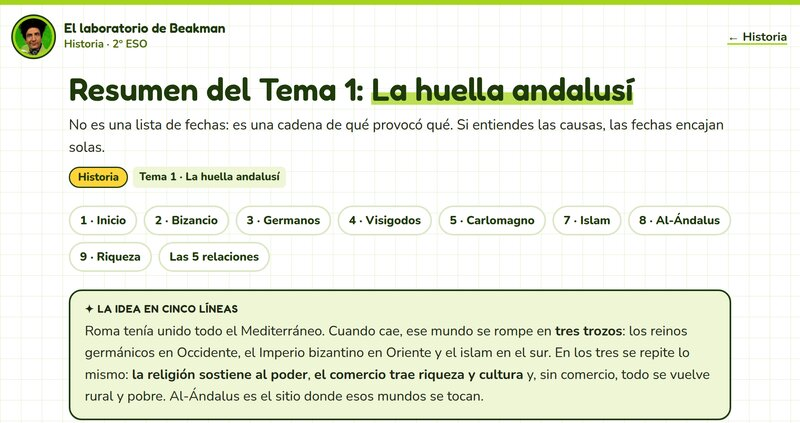
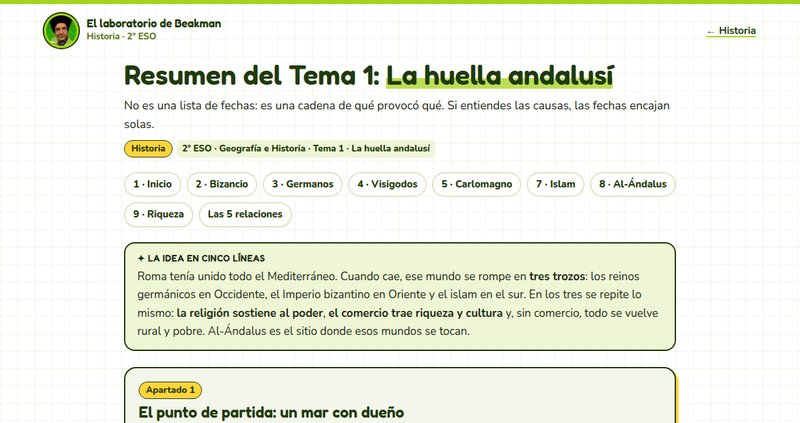
lab: la misma etiqueta en todas las tarjetas, «curso · materia · tema»
La de Historia y la de Ciencias tenían otro orden y otras piezas. Ahora la monta build.py
con el curso, la materia del libro (materias: en cada asignatura, o materia: en el recurso)
y la unidad. También en la cabecera de los dos resúmenes y en sus miniaturas.

diff --git a/lab/site/es/index.html b/lab/site/es/index.html
@@ -47,7 +47,7 @@
   <a class="summary" href="historia/2eso/resumen-tema-1/" style="--subj: #FFD43B">
     <img src="../media/resumen-tema-1.jpg" alt="" width="800" height="423" loading="lazy">
     <div class="body">
-      <div class="meta"><span class="subj">Historia</span><span class="tag">2º ESO · Tema 1 · La huella andalusí</span></div>
+      <div class="meta"><span class="subj">Historia</span><span class="tag">2º ESO · Geografía e Historia · Tema 1 · La huella andalusí</span></div>
       <h3>Resumen del Tema 1: La huella andalusí</h3>
       <p>El tema entero en una lectura: del fin de Roma al reino nazarí de Granada, apartado por apartado, contado como una cadena de qué provocó qué.</p>
     </div>
@@ -66,7 +66,7 @@
   <a class="resource" href="historia/2eso/ponte-a-prueba-tema-1/" style="--subj: #FFD43B">
     <img src="../media/ponte-a-prueba-tema-1.jpg" alt="" width="800" height="423" loading="lazy">
     <div class="body">
-      <div class="meta"><span class="subj">Historia</span><span class="tag">Tema 1 · La huella andalusí</span><span class="pc"><svg viewBox="0 0 24 24" aria-hidden="true"><path d="M4 5h16v10H4zM2 19h20" fill="none" stroke="currentColor" stroke-width="2" stroke-linejoin="round" stroke-linecap="round"/></svg>Para ordenador</span></div>
+      <div class="meta"><span class="subj">Historia</span><span class="tag">2º ESO · Geografía e Historia · Tema 1 · La huella andalusí</span><span class="pc"><svg viewBox="0 0 24 24" aria-hidden="true"><path d="M4 5h16v10H4zM2 19h20" fill="none" stroke="currentColor" stroke-width="2" stroke-linejoin="round" stroke-linecap="round"/></svg>Para ordenador</span></div>
       <h3>Ponte a prueba: el inicio de la Edad Media</h3>
       <p>Repaso para el examen: las 12 preguntas del tema, conceptos, ordenar los hechos, causas y cuadros para completar, con las respuestas de Beakman y un simulacro de examen para hacer con él en Claude.</p>
       <dl class="why">
@@ -78,7 +78,7 @@
   <a class="resource" href="historia/2eso/cronomapa-edad-media/" style="--subj: #FFD43B">
     <img src="../media/cronomapa-edad-media.jpg" alt="" width="800" height="423" loading="lazy">
     <div class="body">
-      <div class="meta"><span class="subj">Historia</span><span class="tag">Toda la Edad Media</span><span class="pc"><svg viewBox="0 0 24 24" aria-hidden="true"><path d="M4 5h16v10H4zM2 19h20" fill="none" stroke="currentColor" stroke-width="2" stroke-linejoin="round" stroke-linecap="round"/></svg>Para ordenador</span></div>
+      <div class="meta"><span class="subj">Historia</span><span class="tag">2º ESO · Geografía e Historia · Toda la Edad Media</span><span class="pc"><svg viewBox="0 0 24 24" aria-hidden="true"><path d="M4 5h16v10H4zM2 19h20" fill="none" stroke="currentColor" stroke-width="2" stroke-linejoin="round" stroke-linecap="round"/></svg>Para ordenador</span></div>
       <h3>Cronomapa de la Edad Media</h3>
       <p>Mueve la barra del 476 al 1492 y mira qué reinos, ciudades y batallas coincidieron en el tiempo. Cada acontecimiento cuenta qué cambió, al poco y a la larga.</p>
       <dl class="why">
@@ -90,7 +90,7 @@
   <a class="resource" href="historia/2eso/mapas-al-andalus/" style="--subj: #FFD43B">
     <img src="../media/mapas-al-andalus.jpg" alt="" width="800" height="423" loading="lazy">
     <div class="body">
-      <div class="meta"><span class="subj">Historia</span><span class="tag">Tema 1 · Al-Ándalus</span><span class="pc"><svg viewBox="0 0 24 24" aria-hidden="true"><path d="M4 5h16v10H4zM2 19h20" fill="none" stroke="currentColor" stroke-width="2" stroke-linejoin="round" stroke-linecap="round"/></svg>Para ordenador</span></div>
+      <div class="meta"><span class="subj">Historia</span><span class="tag">2º ESO · Geografía e Historia · Tema 1 · La huella andalusí</span><span class="pc"><svg viewBox="0 0 24 24" aria-hidden="true"><path d="M4 5h16v10H4zM2 19h20" fill="none" stroke="currentColor" stroke-width="2" stroke-linejoin="round" stroke-linecap="round"/></svg>Para ordenador</span></div>
       <h3>Los mapas de al-Ándalus</h3>
       <p>Casi 800 años en seis mapas: la conquista, el emirato, el califato, los taifas, almorávides y almohades, y el reino nazarí de Granada.</p>
       <dl class="why">
@@ -102,7 +102,7 @@
   <a class="resource" href="historia/2eso/palabras-del-arabe/" style="--subj: #FFD43B">
     <img src="../media/palabras-del-arabe.jpg" alt="" width="800" height="423" loading="lazy">
     <div class="body">
-      <div class="meta"><span class="subj">Historia</span><span class="tag">Tema 1 · El legado de al-Ándalus</span><span class="pc"><svg viewBox="0 0 24 24" aria-hidden="true"><path d="M4 5h16v10H4zM2 19h20" fill="none" stroke="currentColor" stroke-width="2" stroke-linejoin="round" stroke-linecap="round"/></svg>Para ordenador</span></div>
+      <div class="meta"><span class="subj">Historia</span><span class="tag">2º ESO · Geografía e Historia · Tema 1 · La huella andalusí</span><span class="pc"><svg viewBox="0 0 24 24" aria-hidden="true"><path d="M4 5h16v10H4zM2 19h20" fill="none" stroke="currentColor" stroke-width="2" stroke-linejoin="round" stroke-linecap="round"/></svg>Para ordenador</span></div>
       <h3>¿Qué dicen las palabras?</h3>
       <p>Un juego con las palabras que el español heredó del árabe: descubre cuáles vienen de al-Ándalus y cuáles solo lo parecen, clasifícalas por ámbitos y averigua por qué tantas empiezan por «al».</p>
       <dl class="why">
@@ -114,7 +114,7 @@
   <a class="resource" href="historia/2eso/me-pongo-en-su-mentalidad/" style="--subj: #FFD43B">
     <img src="../media/me-pongo-en-su-mentalidad.jpg" alt="" width="800" height="423" loading="lazy">
     <div class="body">
-      <div class="meta"><span class="subj">Historia</span><span class="tag">Tema 1 · Del fin de Roma al Califato de Córdoba</span><span class="pc"><svg viewBox="0 0 24 24" aria-hidden="true"><path d="M4 5h16v10H4zM2 19h20" fill="none" stroke="currentColor" stroke-width="2" stroke-linejoin="round" stroke-linecap="round"/></svg>Para ordenador</span></div>
+      <div class="meta"><span class="subj">Historia</span><span class="tag">2º ESO · Geografía e Historia · Tema 1 · La huella andalusí</span><span class="pc"><svg viewBox="0 0 24 24" aria-hidden="true"><path d="M4 5h16v10H4zM2 19h20" fill="none" stroke="currentColor" stroke-width="2" stroke-linejoin="round" stroke-linecap="round"/></svg>Para ordenador</span></div>
       <h3>Me pongo en su mentalidad</h3>
       <p>Seis personas del inicio de la Edad Media: un artesano que huye al campo, una comerciante de Constantinopla, un monje copista, una vecina de Toledo en el 711, un mercader del zoco de Córdoba y una campesina de una alquería. Elige una y escribe en su piel.</p>
       <dl class="why">
@@ -126,7 +126,7 @@
   <a class="resource" href="historia/2eso/mezquita-y-alqueria/" style="--subj: #FFD43B">
     <img src="../media/mezquita-y-alqueria.jpg" alt="" width="800" height="423" loading="lazy">
     <div class="body">
-      <div class="meta"><span class="subj">Historia</span><span class="tag">Tema 1 · La huella andalusí</span><span class="pc"><svg viewBox="0 0 24 24" aria-hidden="true"><path d="M4 5h16v10H4zM2 19h20" fill="none" stroke="currentColor" stroke-width="2" stroke-linejoin="round" stroke-linecap="round"/></svg>Para ordenador</span></div>
+      <div class="meta"><span class="subj">Historia</span><span class="tag">2º ESO · Geografía e Historia · Tema 1 · La huella andalusí</span><span class="pc"><svg viewBox="0 0 24 24" aria-hidden="true"><path d="M4 5h16v10H4zM2 19h20" fill="none" stroke="currentColor" stroke-width="2" stroke-linejoin="round" stroke-linecap="round"/></svg>Para ordenador</span></div>
       <h3>La mezquita y la alquería por dentro</h3>
       <p>Dos dibujos para pulsar: las partes de una mezquita (minarete, patio, fuente, sala de oraciones, quibla, mihrab y mimbar) y las de una alquería de regadío (rueda hidráulica, noria, acequias, alberca, huertos…). Con los cinco deberes del musulmán.</p>
       <dl class="why">
@@ -138,7 +138,7 @@
   <a class="resource" href="historia/2eso/mayrit/" style="--subj: #FFD43B">
     <img src="../media/mayrit.jpg" alt="" width="800" height="423" loading="lazy">
     <div class="body">
-      <div class="meta"><span class="subj">Historia</span><span class="tag">Tema 1 · La huella andalusí</span><span class="pc"><svg viewBox="0 0 24 24" aria-hidden="true"><path d="M4 5h16v10H4zM2 19h20" fill="none" stroke="currentColor" stroke-width="2" stroke-linejoin="round" stroke-linecap="round"/></svg>Para ordenador</span></div>
+      <div class="meta"><span class="subj">Historia</span><span class="tag">2º ESO · Geografía e Historia · Tema 1 · La huella andalusí</span><span class="pc"><svg viewBox="0 0 24 24" aria-hidden="true"><path d="M4 5h16v10H4zM2 19h20" fill="none" stroke="currentColor" stroke-width="2" stroke-linejoin="round" stroke-linecap="round"/></svg>Para ordenador</span></div>
       <h3>Mayrit, el Madrid de al-Ándalus</h3>
       <p>Un plano para pulsar de la fortaleza andalusí que dio origen a Madrid, con una capa que superpone el Madrid de hoy, una línea de tiempo y un paseo por lo que queda.</p>
       <dl class="why">
@@ -150,7 +150,7 @@
   <a class="resource" href="historia/2eso/quien-soy/" style="--subj: #FFD43B">
     <img src="../media/quien-soy.jpg" alt="" width="800" height="423" loading="lazy">
     <div class="body">
-      <div class="meta"><span class="subj">Historia</span><span class="tag">Tema 1 · La huella andalusí</span><span class="pc"><svg viewBox="0 0 24 24" aria-hidden="true"><path d="M4 5h16v10H4zM2 19h20" fill="none" stroke="currentColor" stroke-width="2" stroke-linejoin="round" stroke-linecap="round"/></svg>Para ordenador</span></div>
+      <div class="meta"><span class="subj">Historia</span><span class="tag">2º ESO · Geografía e Historia · Tema 1 · La huella andalusí</span><span class="pc"><svg viewBox="0 0 24 24" aria-hidden="true"><path d="M4 5h16v10H4zM2 19h20" fill="none" stroke="currentColor" stroke-width="2" stroke-linejoin="round" stroke-linecap="round"/></svg>Para ordenador</span></div>
       <h3>¿Quién soy?</h3>
       <p>Trece personajes del inicio de la Edad Media te hablan en primera persona: de Rómulo Augústulo a Almanzor. Adivina quién es con el menor número de pistas.</p>
       <dl class="why">
@@ -162,7 +162,7 @@
   <a class="resource" href="historia/2eso/vocabulario-tema-1/" style="--subj: #FFD43B">
     <img src="../media/vocabulario-tema-1.jpg" alt="" width="800" height="423" loading="lazy">
     <div class="body">
-      <div class="meta"><span class="subj">Historia</span><span class="tag">Tema 1 · La huella andalusí</span><span class="pc"><svg viewBox="0 0 24 24" aria-hidden="true"><path d="M4 5h16v10H4zM2 19h20" fill="none" stroke="currentColor" stroke-width="2" stroke-linejoin="round" stroke-linecap="round"/></svg>Para ordenador</span></div>
+      <div class="meta"><span class="subj">Historia</span><span class="tag">2º ESO · Geografía e Historia · Tema 1 · La huella andalusí</span><span class="pc"><svg viewBox="0 0 24 24" aria-hidden="true"><path d="M4 5h16v10H4zM2 19h20" fill="none" stroke="currentColor" stroke-width="2" stroke-linejoin="round" stroke-linecap="round"/></svg>Para ordenador</span></div>
       <h3>Vocabulario del Tema 1</h3>
       <p>Las 47 palabras clave del tema en tarjetas que giran: de Mare Nostrum y basileus a taifa, alquería y Mayrit, con su definición y un ejemplo.</p>
       <dl class="why">
@@ -174,7 +174,7 @@
   <a class="resource" href="historia/2eso/tres-carriles/" style="--subj: #FFD43B">
     <img src="../media/tres-carriles.jpg" alt="" width="800" height="423" loading="lazy">
     <div class="body">
-      <div class="meta"><span class="subj">Historia</span><span class="tag">Tema 1 · La huella andalusí</span><span class="pc"><svg viewBox="0 0 24 24" aria-hidden="true"><path d="M4 5h16v10H4zM2 19h20" fill="none" stroke="currentColor" stroke-width="2" stroke-linejoin="round" stroke-linecap="round"/></svg>Para ordenador</span></div>
+      <div class="meta"><span class="subj">Historia</span><span class="tag">2º ESO · Geografía e Historia · Tema 1 · La huella andalusí</span><span class="pc"><svg viewBox="0 0 24 24" aria-hidden="true"><path d="M4 5h16v10H4zM2 19h20" fill="none" stroke="currentColor" stroke-width="2" stroke-linejoin="round" stroke-linecap="round"/></svg>Para ordenador</span></div>
       <h3>El Tema 1 en tres carriles</h3>
       <p>Una línea del tiempo del 400 al 1500 con tres carriles en paralelo: Imperio bizantino, Europa germánica y carolingia, y el islam y al-Ándalus. Cabe en un folio para imprimir.</p>
       <dl class="why">
@@ -186,7 +186,7 @@
   <a class="resource" href="ciencias/2eso/que-es-una-magnitud/" style="--subj: #69DB7C">
     <img src="../media/que-es-una-magnitud.jpg" alt="" width="800" height="423" loading="lazy">
     <div class="body">
-      <div class="meta"><span class="subj">Ciencias</span><span class="tag">Física y Química · Tema 1 · La actividad científica</span><span class="pc"><svg viewBox="0 0 24 24" aria-hidden="true"><path d="M4 5h16v10H4zM2 19h20" fill="none" stroke="currentColor" stroke-width="2" stroke-linejoin="round" stroke-linecap="round"/></svg>Para ordenador</span></div>
+      <div class="meta"><span class="subj">Ciencias</span><span class="tag">2º ESO · Física y Química · Tema 1 · La actividad científica</span><span class="pc"><svg viewBox="0 0 24 24" aria-hidden="true"><path d="M4 5h16v10H4zM2 19h20" fill="none" stroke="currentColor" stroke-width="2" stroke-linejoin="round" stroke-linecap="round"/></svg>Para ordenador</span></div>
       <h3>¿Qué es una magnitud?</h3>
       <p>Clasifica qué se puede medir y qué no, mira a escala por qué «5» no dice nada y «5 m» sí, empareja cada magnitud con su unidad, su símbolo y su instrumento, y construye las magnitudes derivadas con bloques.</p>
       <dl class="why">
@@ -198,7 +198,7 @@
   <a class="resource" href="ciencias/2eso/escalera-de-unidades/" style="--subj: #69DB7C">
     <img src="../media/escalera-de-unidades.jpg" alt="" width="800" height="423" loading="lazy">
     <div class="body">
-      <div class="meta"><span class="subj">Ciencias</span><span class="tag">Física y Química · Tema 1 · La actividad científica</span><span class="pc"><svg viewBox="0 0 24 24" aria-hidden="true"><path d="M4 5h16v10H4zM2 19h20" fill="none" stroke="currentColor" stroke-width="2" stroke-linejoin="round" stroke-linecap="round"/></svg>Para ordenador</span></div>
+      <div class="meta"><span class="subj">Ciencias</span><span class="tag">2º ESO · Física y Química · Tema 1 · La actividad científica</span><span class="pc"><svg viewBox="0 0 24 24" aria-hidden="true"><path d="M4 5h16v10H4zM2 19h20" fill="none" stroke="currentColor" stroke-width="2" stroke-linejoin="round" stroke-linecap="round"/></svg>Para ordenador</span></div>
       <h3>La escalera de las unidades</h3>
       <p>Sube y baja la escalera de km a mm (y de las unidades de masa y de capacidad), mira cómo se mueve la coma en cada escalón y aprende el truco del factor de conversión, con las unidades tachándose ante tus ojos.</p>
       <dl class="why">
@@ -210,7 +210,7 @@
   <a class="resource" href="ciencias/2eso/mide-como-en-el-laboratorio/" style="--subj: #69DB7C">
     <img src="../media/mide-como-en-el-laboratorio.jpg" alt="" width="800" height="423" loading="lazy">
     <div class="body">
-      <div class="meta"><span class="subj">Ciencias</span><span class="tag">Física y Química · Tema 1 · La actividad científica</span><span class="pc"><svg viewBox="0 0 24 24" aria-hidden="true"><path d="M4 5h16v10H4zM2 19h20" fill="none" stroke="currentColor" stroke-width="2" stroke-linejoin="round" stroke-linecap="round"/></svg>Para ordenador</span></div>
+      <div class="meta"><span class="subj">Ciencias</span><span class="tag">2º ESO · Física y Química · Tema 1 · La actividad científica</span><span class="pc"><svg viewBox="0 0 24 24" aria-hidden="true"><path d="M4 5h16v10H4zM2 19h20" fill="none" stroke="currentColor" stroke-width="2" stroke-linejoin="round" stroke-linecap="round"/></svg>Para ordenador</span></div>
       <h3>Mide como en el laboratorio</h3>
       <p>Lee una regla, una probeta, un termómetro, una balanza y un cronómetro, compara la precisión de dos instrumentos, mide varias veces y haz la media, y caza los errores típicos al medir.</p>
       <dl class="why">

diff --git a/lab/site/es/historia/index.html b/lab/site/es/historia/index.html
@@ -30,7 +30,7 @@
   <a class="summary" href="2eso/resumen-tema-1/" style="--subj: #FFD43B">
     <img src="../../media/resumen-tema-1.jpg" alt="" width="800" height="423" loading="lazy">
     <div class="body">
-      <div class="meta"><span class="subj">Historia</span><span class="tag">2º ESO · Tema 1 · La huella andalusí</span></div>
+      <div class="meta"><span class="subj">Historia</span><span class="tag">2º ESO · Geografía e Historia · Tema 1 · La huella andalusí</span></div>
       <h3>Resumen del Tema 1: La huella andalusí</h3>
       <p>El tema entero en una lectura: del fin de Roma al reino nazarí de Granada, apartado por apartado, contado como una cadena de qué provocó qué.</p>
     </div>
@@ -45,7 +45,7 @@
   <a class="resource" href="2eso/ponte-a-prueba-tema-1/" style="--subj: #FFD43B">
     <img src="../../media/ponte-a-prueba-tema-1.jpg" alt="" width="800" height="423" loading="lazy">
     <div class="body">
-      <div class="meta"><span class="subj">Historia</span><span class="tag">Tema 1 · La huella andalusí</span><span class="pc"><svg viewBox="0 0 24 24" aria-hidden="true"><path d="M4 5h16v10H4zM2 19h20" fill="none" stroke="currentColor" stroke-width="2" stroke-linejoin="round" stroke-linecap="round"/></svg>Para ordenador</span></div>
+      <div class="meta"><span class="subj">Historia</span><span class="tag">2º ESO · Geografía e Historia · Tema 1 · La huella andalusí</span><span class="pc"><svg viewBox="0 0 24 24" aria-hidden="true"><path d="M4 5h16v10H4zM2 19h20" fill="none" stroke="currentColor" stroke-width="2" stroke-linejoin="round" stroke-linecap="round"/></svg>Para ordenador</span></div>
       <h3>Ponte a prueba: el inicio de la Edad Media</h3>
       <p>Repaso para el examen: las 12 preguntas del tema, conceptos, ordenar los hechos, causas y cuadros para completar, con las respuestas de Beakman y un simulacro de examen para hacer con él en Claude.</p>
       <dl class="why">
@@ -57,7 +57,7 @@
   <a class="resource" href="2eso/mapas-al-andalus/" style="--subj: #FFD43B">
     <img src="../../media/mapas-al-andalus.jpg" alt="" width="800" height="423" loading="lazy">
     <div class="body">
-      <div class="meta"><span class="subj">Historia</span><span class="tag">Tema 1 · Al-Ándalus</span><span class="pc"><svg viewBox="0 0 24 24" aria-hidden="true"><path d="M4 5h16v10H4zM2 19h20" fill="none" stroke="currentColor" stroke-width="2" stroke-linejoin="round" stroke-linecap="round"/></svg>Para ordenador</span></div>
+      <div class="meta"><span class="subj">Historia</span><span class="tag">2º ESO · Geografía e Historia · Tema 1 · La huella andalusí</span><span class="pc"><svg viewBox="0 0 24 24" aria-hidden="true"><path d="M4 5h16v10H4zM2 19h20" fill="none" stroke="currentColor" stroke-width="2" stroke-linejoin="round" stroke-linecap="round"/></svg>Para ordenador</span></div>
       <h3>Los mapas de al-Ándalus</h3>
       <p>Casi 800 años en seis mapas: la conquista, el emirato, el califato, los taifas, almorávides y almohades, y el reino nazarí de Granada.</p>
       <dl class="why">
@@ -69,7 +69,7 @@
   <a class="resource" href="2eso/palabras-del-arabe/" style="--subj: #FFD43B">
     <img src="../../media/palabras-del-arabe.jpg" alt="" width="800" height="423" loading="lazy">
     <div class="body">
-      <div class="meta"><span class="subj">Historia</span><span class="tag">Tema 1 · El legado de al-Ándalus</span><span class="pc"><svg viewBox="0 0 24 24" aria-hidden="true"><path d="M4 5h16v10H4zM2 19h20" fill="none" stroke="currentColor" stroke-width="2" stroke-linejoin="round" stroke-linecap="round"/></svg>Para ordenador</span></div>
+      <div class="meta"><span class="subj">Historia</span><span class="tag">2º ESO · Geografía e Historia · Tema 1 · La huella andalusí</span><span class="pc"><svg viewBox="0 0 24 24" aria-hidden="true"><path d="M4 5h16v10H4zM2 19h20" fill="none" stroke="currentColor" stroke-width="2" stroke-linejoin="round" stroke-linecap="round"/></svg>Para ordenador</span></div>
       <h3>¿Qué dicen las palabras?</h3>
       <p>Un juego con las palabras que el español heredó del árabe: descubre cuáles vienen de al-Ándalus y cuáles solo lo parecen, clasifícalas por ámbitos y averigua por qué tantas empiezan por «al».</p>
       <dl class="why">
@@ -81,7 +81,7 @@
   <a class="resource" href="2eso/me-pongo-en-su-mentalidad/" style="--subj: #FFD43B">
     <img src="../../media/me-pongo-en-su-mentalidad.jpg" alt="" width="800" height="423" loading="lazy">
     <div class="body">
-      <div class="meta"><span class="subj">Historia</span><span class="tag">Tema 1 · Del fin de Roma al Califato de Córdoba</span><span class="pc"><svg viewBox="0 0 24 24" aria-hidden="true"><path d="M4 5h16v10H4zM2 19h20" fill="none" stroke="currentColor" stroke-width="2" stroke-linejoin="round" stroke-linecap="round"/></svg>Para ordenador</span></div>
+      <div class="meta"><span class="subj">Historia</span><span class="tag">2º ESO · Geografía e Historia · Tema 1 · La huella andalusí</span><span class="pc"><svg viewBox="0 0 24 24" aria-hidden="true"><path d="M4 5h16v10H4zM2 19h20" fill="none" stroke="currentColor" stroke-width="2" stroke-linejoin="round" stroke-linecap="round"/></svg>Para ordenador</span></div>
       <h3>Me pongo en su mentalidad</h3>
       <p>Seis personas del inicio de la Edad Media: un artesano que huye al campo, una comerciante de Constantinopla, un monje copista, una vecina de Toledo en el 711, un mercader del zoco de Córdoba y una campesina de una alquería. Elige una y escribe en su piel.</p>
       <dl class="why">
@@ -93,7 +93,7 @@
   <a class="resource" href="2eso/mezquita-y-alqueria/" style="--subj: #FFD43B">
     <img src="../../media/mezquita-y-alqueria.jpg" alt="" width="800" height="423" loading="lazy">
     <div class="body">
-      <div class="meta"><span class="subj">Historia</span><span class="tag">Tema 1 · La huella andalusí</span><span class="pc"><svg viewBox="0 0 24 24" aria-hidden="true"><path d="M4 5h16v10H4zM2 19h20" fill="none" stroke="currentColor" stroke-width="2" stroke-linejoin="round" stroke-linecap="round"/></svg>Para ordenador</span></div>
+      <div class="meta"><span class="subj">Historia</span><span class="tag">2º ESO · Geografía e Historia · Tema 1 · La huella andalusí</span><span class="pc"><svg viewBox="0 0 24 24" aria-hidden="true"><path d="M4 5h16v10H4zM2 19h20" fill="none" stroke="currentColor" stroke-width="2" stroke-linejoin="round" stroke-linecap="round"/></svg>Para ordenador</span></div>
       <h3>La mezquita y la alquería por dentro</h3>
       <p>Dos dibujos para pulsar: las partes de una mezquita (minarete, patio, fuente, sala de oraciones, quibla, mihrab y mimbar) y las de una alquería de regadío (rueda hidráulica, noria, acequias, alberca, huertos…). Con los cinco deberes del musulmán.</p>
       <dl class="why">
@@ -105,7 +105,7 @@
   <a class="resource" href="2eso/mayrit/" style="--subj: #FFD43B">
     <img src="../../media/mayrit.jpg" alt="" width="800" height="423" loading="lazy">
     <div class="body">
-      <div class="meta"><span class="subj">Historia</span><span class="tag">Tema 1 · La huella andalusí</span><span class="pc"><svg viewBox="0 0 24 24" aria-hidden="true"><path d="M4 5h16v10H4zM2 19h20" fill="none" stroke="currentColor" stroke-width="2" stroke-linejoin="round" stroke-linecap="round"/></svg>Para ordenador</span></div>
+      <div class="meta"><span class="subj">Historia</span><span class="tag">2º ESO · Geografía e Historia · Tema 1 · La huella andalusí</span><span class="pc"><svg viewBox="0 0 24 24" aria-hidden="true"><path d="M4 5h16v10H4zM2 19h20" fill="none" stroke="currentColor" stroke-width="2" stroke-linejoin="round" stroke-linecap="round"/></svg>Para ordenador</span></div>
       <h3>Mayrit, el Madrid de al-Ándalus</h3>
       <p>Un plano para pulsar de la fortaleza andalusí que dio origen a Madrid, con una capa que superpone el Madrid de hoy, una línea de tiempo y un paseo por lo que queda.</p>
       <dl class="why">
@@ -117,7 +117,7 @@
   <a class="resource" href="2eso/quien-soy/" style="--subj: #FFD43B">
     <img src="../../media/quien-soy.jpg" alt="" width="800" height="423" loading="lazy">
     <div class="body">
-      <div class="meta"><span class="subj">Historia</span><span class="tag">Tema 1 · La huella andalusí</span><span class="pc"><svg viewBox="0 0 24 24" aria-hidden="true"><path d="M4 5h16v10H4zM2 19h20" fill="none" stroke="currentColor" stroke-width="2" stroke-linejoin="round" stroke-linecap="round"/></svg>Para ordenador</span></div>
+      <div class="meta"><span class="subj">Historia</span><span class="tag">2º ESO · Geografía e Historia · Tema 1 · La huella andalusí</span><span class="pc"><svg viewBox="0 0 24 24" aria-hidden="true"><path d="M4 5h16v10H4zM2 19h20" fill="none" stroke="currentColor" stroke-width="2" stroke-linejoin="round" stroke-linecap="round"/></svg>Para ordenador</span></div>
       <h3>¿Quién soy?</h3>
       <p>Trece personajes del inicio de la Edad Media te hablan en primera persona: de Rómulo Augústulo a Almanzor. Adivina quién es con el menor número de pistas.</p>
       <dl class="why">
@@ -129,7 +129,7 @@
   <a class="resource" href="2eso/vocabulario-tema-1/" style="--subj: #FFD43B">
     <img src="../../media/vocabulario-tema-1.jpg" alt="" width="800" height="423" loading="lazy">
     <div class="body">
-      <div class="meta"><span class="subj">Historia</span><span class="tag">Tema 1 · La huella andalusí</span><span class="pc"><svg viewBox="0 0 24 24" aria-hidden="true"><path d="M4 5h16v10H4zM2 19h20" fill="none" stroke="currentColor" stroke-width="2" stroke-linejoin="round" stroke-linecap="round"/></svg>Para ordenador</span></div>
+      <div class="meta"><span class="subj">Historia</span><span class="tag">2º ESO · Geografía e Historia · Tema 1 · La huella andalusí</span><span class="pc"><svg viewBox="0 0 24 24" aria-hidden="true"><path d="M4 5h16v10H4zM2 19h20" fill="none" stroke="currentColor" stroke-width="2" stroke-linejoin="round" stroke-linecap="round"/></svg>Para ordenador</span></div>
       <h3>Vocabulario del Tema 1</h3>
       <p>Las 47 palabras clave del tema en tarjetas que giran: de Mare Nostrum y basileus a taifa, alquería y Mayrit, con su definición y un ejemplo.</p>
       <dl class="why">
@@ -141,7 +141,7 @@
   <a class="resource" href="2eso/tres-carriles/" style="--subj: #FFD43B">
     <img src="../../media/tres-carriles.jpg" alt="" width="800" height="423" loading="lazy">
     <div class="body">
-      <div class="meta"><span class="subj">Historia</span><span class="tag">Tema 1 · La huella andalusí</span><span class="pc"><svg viewBox="0 0 24 24" aria-hidden="true"><path d="M4 5h16v10H4zM2 19h20" fill="none" stroke="currentColor" stroke-width="2" stroke-linejoin="round" stroke-linecap="round"/></svg>Para ordenador</span></div>
+      <div class="meta"><span class="subj">Historia</span><span class="tag">2º ESO · Geografía e Historia · Tema 1 · La huella andalusí</span><span class="pc"><svg viewBox="0 0 24 24" aria-hidden="true"><path d="M4 5h16v10H4zM2 19h20" fill="none" stroke="currentColor" stroke-width="2" stroke-linejoin="round" stroke-linecap="round"/></svg>Para ordenador</span></div>
       <h3>El Tema 1 en tres carriles</h3>
       <p>Una línea del tiempo del 400 al 1500 con tres carriles en paralelo: Imperio bizantino, Europa germánica y carolingia, y el islam y al-Ándalus. Cabe en un folio para imprimir.</p>
       <dl class="why">
@@ -156,7 +156,7 @@
   <a class="resource" href="2eso/cronomapa-edad-media/" style="--subj: #FFD43B">
     <img src="../../media/cronomapa-edad-media.jpg" alt="" width="800" height="423" loading="lazy">
     <div class="body">
-      <div class="meta"><span class="subj">Historia</span><span class="tag">Toda la Edad Media</span><span class="pc"><svg viewBox="0 0 24 24" aria-hidden="true"><path d="M4 5h16v10H4zM2 19h20" fill="none" stroke="currentColor" stroke-width="2" stroke-linejoin="round" stroke-linecap="round"/></svg>Para ordenador</span></div>
+      <div class="meta"><span class="subj">Historia</span><span class="tag">2º ESO · Geografía e Historia · Toda la Edad Media</span><span class="pc"><svg viewBox="0 0 24 24" aria-hidden="true"><path d="M4 5h16v10H4zM2 19h20" fill="none" stroke="currentColor" stroke-width="2" stroke-linejoin="round" stroke-linecap="round"/></svg>Para ordenador</span></div>
       <h3>Cronomapa de la Edad Media</h3>
       <p>Mueve la barra del 476 al 1492 y mira qué reinos, ciudades y batallas coincidieron en el tiempo. Cada acontecimiento cuenta qué cambió, al poco y a la larga.</p>
       <dl class="why">

diff --git a/lab/site/es/ciencias/index.html b/lab/site/es/ciencias/index.html
@@ -45,7 +45,7 @@
   <a class="resource" href="2eso/que-es-una-magnitud/" style="--subj: #69DB7C">
     <img src="../../media/que-es-una-magnitud.jpg" alt="" width="800" height="423" loading="lazy">
     <div class="body">
-      <div class="meta"><span class="subj">Ciencias</span><span class="tag">Física y Química · Tema 1 · La actividad científica</span><span class="pc"><svg viewBox="0 0 24 24" aria-hidden="true"><path d="M4 5h16v10H4zM2 19h20" fill="none" stroke="currentColor" stroke-width="2" stroke-linejoin="round" stroke-linecap="round"/></svg>Para ordenador</span></div>
+      <div class="meta"><span class="subj">Ciencias</span><span class="tag">2º ESO · Física y Química · Tema 1 · La actividad científica</span><span class="pc"><svg viewBox="0 0 24 24" aria-hidden="true"><path d="M4 5h16v10H4zM2 19h20" fill="none" stroke="currentColor" stroke-width="2" stroke-linejoin="round" stroke-linecap="round"/></svg>Para ordenador</span></div>
       <h3>¿Qué es una magnitud?</h3>
       <p>Clasifica qué se puede medir y qué no, mira a escala por qué «5» no dice nada y «5 m» sí, empareja cada magnitud con su unidad, su símbolo y su instrumento, y construye las magnitudes derivadas con bloques.</p>
       <dl class="why">
@@ -57,7 +57,7 @@
   <a class="resource" href="2eso/escalera-de-unidades/" style="--subj: #69DB7C">
     <img src="../../media/escalera-de-unidades.jpg" alt="" width="800" height="423" loading="lazy">
     <div class="body">
-      <div class="meta"><span class="subj">Ciencias</span><span class="tag">Física y Química · Tema 1 · La actividad científica</span><span class="pc"><svg viewBox="0 0 24 24" aria-hidden="true"><path d="M4 5h16v10H4zM2 19h20" fill="none" stroke="currentColor" stroke-width="2" stroke-linejoin="round" stroke-linecap="round"/></svg>Para ordenador</span></div>
+      <div class="meta"><span class="subj">Ciencias</span><span class="tag">2º ESO · Física y Química · Tema 1 · La actividad científica</span><span class="pc"><svg viewBox="0 0 24 24" aria-hidden="true"><path d="M4 5h16v10H4zM2 19h20" fill="none" stroke="currentColor" stroke-width="2" stroke-linejoin="round" stroke-linecap="round"/></svg>Para ordenador</span></div>
       <h3>La escalera de las unidades</h3>
       <p>Sube y baja la escalera de km a mm (y de las unidades de masa y de capacidad), mira cómo se mueve la coma en cada escalón y aprende el truco del factor de conversión, con las unidades tachándose ante tus ojos.</p>
       <dl class="why">
@@ -69,7 +69,7 @@
   <a class="resource" href="2eso/mide-como-en-el-laboratorio/" style="--subj: #69DB7C">
     <img src="../../media/mide-como-en-el-laboratorio.jpg" alt="" width="800" height="423" loading="lazy">
     <div class="body">
-      <div class="meta"><span class="subj">Ciencias</span><span class="tag">Física y Química · Tema 1 · La actividad científica</span><span class="pc"><svg viewBox="0 0 24 24" aria-hidden="true"><path d="M4 5h16v10H4zM2 19h20" fill="none" stroke="currentColor" stroke-width="2" stroke-linejoin="round" stroke-linecap="round"/></svg>Para ordenador</span></div>
+      <div class="meta"><span class="subj">Ciencias</span><span class="tag">2º ESO · Física y Química · Tema 1 · La actividad científica</span><span class="pc"><svg viewBox="0 0 24 24" aria-hidden="true"><path d="M4 5h16v10H4zM2 19h20" fill="none" stroke="currentColor" stroke-width="2" stroke-linejoin="round" stroke-linecap="round"/></svg>Para ordenador</span></div>
       <h3>Mide como en el laboratorio</h3>
       <p>Lee una regla, una probeta, un termómetro, una balanza y un cronómetro, compara la precisión de dos instrumentos, mide varias veces y haz la media, y caza los errores típicos al medir.</p>
       <dl class="why">

diff --git a/lab/site/es/ciencias/2eso/resumen-actividad-cientifica/index.html b/lab/site/es/ciencias/2eso/resumen-actividad-cientifica/index.html
@@ -49,7 +49,7 @@ code { font-family: inherit; font-weight: 800; color: var(--ink); background: #f
   <div class="rhead">
     <h1>Resumen del Tema 1: <em>La actividad científica</em></h1>
     <p class="lead">La unidad que es la caja de herramientas de todo el curso: cómo trabaja la ciencia, qué se mide, con qué unidades y cómo se mide bien.</p>
-    <div class="meta"><span class="subj" style="--subj:#69DB7C">Ciencias</span><span class="tag">Física y Química · Tema 1 · La actividad científica</span></div>
+    <div class="meta"><span class="subj" style="--subj:#69DB7C">Ciencias</span><span class="tag">2º ESO · Física y Química · Tema 1 · La actividad científica</span></div>
   </div>
 
   <nav class="tabs" aria-label="Apartados">

diff --git a/lab/site/es/historia/2eso/resumen-tema-1/index.html b/lab/site/es/historia/2eso/resumen-tema-1/index.html
@@ -45,7 +45,7 @@ main.wrap { max-width: 860px; }
   <div class="rhead">
     <h1>Resumen del Tema 1: <em>La huella andalusí</em></h1>
     <p class="lead">No es una lista de fechas: es una cadena de qué provocó qué. Si entiendes las causas, las fechas encajan solas.</p>
-    <div class="meta"><span class="subj" style="--subj:#FFD43B">Historia</span><span class="tag">Tema 1 · La huella andalusí</span></div>
+    <div class="meta"><span class="subj" style="--subj:#FFD43B">Historia</span><span class="tag">2º ESO · Geografía e Historia · Tema 1 · La huella andalusí</span></div>
   </div>
 
   <nav class="tabs" aria-label="Apartados">

diff --git a/lab/build.py b/lab/build.py
@@ -78,6 +78,15 @@ def count(t, n):
     return t["recurso_1"] if n == 1 else t["recurso_n"].format(n=n)
 
 
+def etiqueta(t, r, s, lang):
+    """La misma en todas las tarjetas: curso · materia del libro · tema (o qué abarca, si es para todo el curso)."""
+    tx = r[lang]
+    unidad = tx.get("unidad") or GENERAL
+    partes = [t["cursos"][r["curso"]], tx.get("materia") or s[lang].get("materias", {}).get(r["curso"]),
+              tx.get("temas") if unidad == GENERAL else unidad]
+    return " · ".join(p for p in partes if p)
+
+
 def resource_card(t, r, s, lang, up, prefix):
     """`s` es la asignatura del recurso: su nombre y su color van en la etiqueta."""
     tx = r[lang]
@@ -86,7 +95,7 @@ def resource_card(t, r, s, lang, up, prefix):
     return f"""  <a class="resource" href="{prefix}{r["curso"]}/{r["id"]}/" style="--subj: {s["color"]}">
     <img src="{up}media/{r["imagen"]}" alt="" width="800" height="423" loading="lazy">
     <div class="body">
-      <div class="meta"><span class="subj">{e(s[lang]["nombre"])}</span>{kind}<span class="tag">{e(tx["temas"])}</span>{pc}</div>
+      <div class="meta"><span class="subj">{e(s[lang]["nombre"])}</span>{kind}<span class="tag">{e(etiqueta(t, r, s, lang))}</span>{pc}</div>
       <h3>{e(tx["titulo"])}</h3>
       <p>{e(tx["descripcion"])}</p>
       <dl class="why">
@@ -104,7 +113,7 @@ def summary_card(t, r, s, lang, up, prefix):
     return f"""  <a class="summary" href="{prefix}{r["curso"]}/{r["id"]}/" style="--subj: {s["color"]}">
     <img src="{up}media/{r["imagen"]}" alt="" width="800" height="423" loading="lazy">
     <div class="body">
-      <div class="meta"><span class="subj">{e(s[lang]["nombre"])}</span><span class="tag">{e(t["cursos"][r["curso"]])} · {e(tx["temas"])}</span></div>
+      <div class="meta"><span class="subj">{e(s[lang]["nombre"])}</span><span class="tag">{e(etiqueta(t, r, s, lang))}</span></div>
       <h3>{e(tx["titulo"])}</h3>
       <p>{e(tx["descripcion"])}</p>
     </div>

diff --git a/lab/RECURSOS.md b/lab/RECURSOS.md
@@ -25,5 +25,5 @@ Guía para escribir un recurso nuevo en `lab/site/es/<asignatura>/<curso>/<id>/i
 Ver `lab/_modelo.html`. Copiarlo a `lab/site/es/<asignatura>/<curso>/<id>/index.html` y rellenar (las rutas relativas ya cuentan con esa profundidad).
 
 ## Catálogo
-Cada recurso necesita su entrada en `lab/catalog.yml` (título, temas, descripción, objetivo, método) y una miniatura
+Cada recurso necesita su entrada en `lab/catalog.yml` (título, unidad, descripción, objetivo, método; la etiqueta la monta `build.py` con el curso, la materia y la unidad) y una miniatura
 de 800×423 en `lab/site/media/<id>.jpg`. Después, `python3 lab/build.py`.
